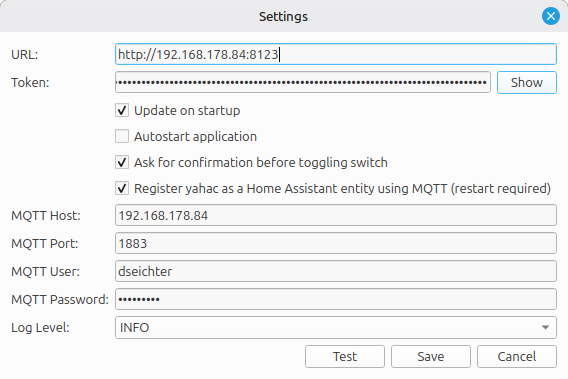
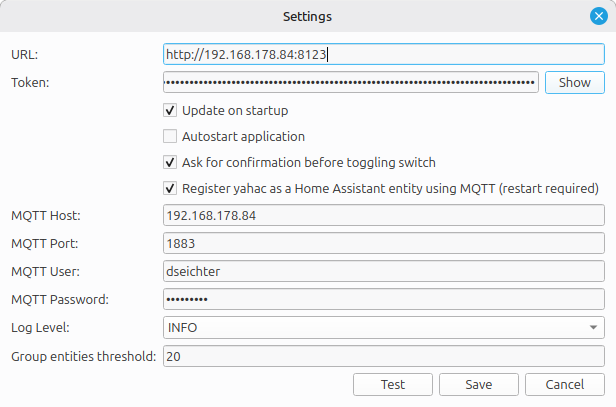
#61 Group entities (configurable)

Changed region(s): [[0.0, 0.0, 0.9877, 0.9868], [0.0, 0.1161, 0.0898, 0.2322], [0.4489, 0.029, 0.5387, 0.058]]

diff --git a/src/gui_traymenu.py b/src/gui_traymenu.py
@@ -154,30 +154,56 @@ class TrayIcon(QSystemTrayIcon):
         sensors = settings.load_value_from_json_file("entities")
         if not sensors:
             return
-            
+        
+        # Group entities by domain
+        groups = {}
         for sensor in sensors:
             entity_id = sensor.get("entity_id", "")
-            friendly_name = sensor.get("friendly_name", entity_id)
-            entity_type = sensor.get("type", "switch")
-            entity_state = api.get_entity_state(entity_id)
-            logger.info(f"Loaded sensor: {friendly_name} ({entity_id}) - {entity_type} - {entity_state}")
+            domain = entity_id.split('.')[0] if '.' in entity_id else 'other'
+            if domain not in groups:
+                groups[domain] = []
+            groups[domain].append(sensor)
+        
+        # Create submenus based on configured threshold
+        group_threshold = settings.load_value_from_json_file("group_threshold")
+        if group_threshold is None:
+            group_threshold = 5
+        else:
+            group_threshold = int(group_threshold)
+        use_submenus = len(sensors) > group_threshold
+        
+        for domain, entities in sorted(groups.items()):
+            if use_submenus and len(groups) > 1:
+                # Create submenu for this domain
+                submenu = QMenu(domain.capitalize(), menu)
+                menu.addMenu(submenu)
+                target_menu = submenu
+            else:
+                target_menu = menu
             
-            if entity_type == "sensor":
-                action = QAction(f"{friendly_name} ({entity_state})", self)
-                action.setIcon(icons.get_icon('sensors_24dp_1976d2_fill0_wght400_grad0_opsz24'))
-                action.setToolTip(entity_id)
-                action.triggered.connect(lambda checked, s=sensor: self.on_sensor_selected(s))
-                menu.addAction(action)
+            for sensor in entities:
+                entity_id = sensor.get("entity_id", "")
+                friendly_name = sensor.get("friendly_name", entity_id)
+                entity_type = sensor.get("type", "switch")
+                entity_state = api.get_entity_state(entity_id)
+                logger.info(f"Loaded sensor: {friendly_name} ({entity_id}) - {entity_type} - {entity_state}")
                 
-            elif entity_type == "switch":
-                action = QAction(f"{friendly_name} ({entity_state})", self)
-                if entity_state == "on":
-                    action.setIcon(icons.get_icon('toggle_on_24dp_1976d2_fill0_wght400_grad0_opsz24'))
-                else:
-                    action.setIcon(icons.get_icon('toggle_off_24dp_1976d2_fill0_wght400_grad0_opsz24'))
-                action.setToolTip(entity_id)
-                action.triggered.connect(lambda checked, s=sensor: self.on_switch_selected(s))
-                menu.addAction(action)
+                if entity_type == "sensor":
+                    action = QAction(f"{friendly_name} ({entity_state})", self)
+                    action.setIcon(icons.get_icon('sensors_24dp_1976d2_fill0_wght400_grad0_opsz24'))
+                    action.setToolTip(entity_id)
+                    action.triggered.connect(lambda checked, s=sensor: self.on_sensor_selected(s))
+                    target_menu.addAction(action)
+                    
+                elif entity_type == "switch":
+                    action = QAction(f"{friendly_name} ({entity_state})", self)
+                    if entity_state == "on":
+                        action.setIcon(icons.get_icon('toggle_on_24dp_1976d2_fill0_wght400_grad0_opsz24'))
+                    else:
+                        action.setIcon(icons.get_icon('toggle_off_24dp_1976d2_fill0_wght400_grad0_opsz24'))
+                    action.setToolTip(entity_id)
+                    action.triggered.connect(lambda checked, s=sensor: self.on_switch_selected(s))
+                    target_menu.addAction(action)
 
     def on_sensor_selected(self, sensor):
         if sensor:

diff --git a/src/gui_config.py b/src/gui_config.py
@@ -89,6 +89,13 @@ class ConfigDialog(QDialog):
         self.cmb_log_level.addItems(["DEBUG", "INFO", "ERROR"])
         grid.addWidget(self.cmb_log_level, 10, 1)
         
+        # Entity grouping threshold
+        grid.addWidget(QLabel("Group entities threshold:"), 11, 0)
+        self.txt_group_threshold = QLineEdit()
+        self.txt_group_threshold.setPlaceholderText("5")
+        self.txt_group_threshold.setToolTip("Minimum entities before grouping into submenus (0 = always group)")
+        grid.addWidget(self.txt_group_threshold, 11, 1)
+        
         layout.addLayout(grid)
         
         # Buttons
@@ -123,6 +130,7 @@ class ConfigDialog(QDialog):
         mqtt_user = settings.load_value_from_json_file("mqtt_user")
         mqtt_password = settings.load_value_from_json_file("mqtt_password")
         log_level = settings.load_value_from_json_file("loglevel")
+        group_threshold = settings.load_value_from_json_file("group_threshold")
 
         self.txt_url.setText(url if url else "")
         self.txt_token.setText(token if token else "")
@@ -135,6 +143,7 @@ class ConfigDialog(QDialog):
         self.txt_mqtt_user.setText(mqtt_user if mqtt_user else "")
         self.txt_mqtt_password.setText(mqtt_password if mqtt_password else "")
         self.cmb_log_level.setCurrentText(log_level if log_level else "INFO")
+        self.txt_group_threshold.setText(str(group_threshold) if group_threshold else "5")
 
     def on_show_token(self):
         if self.token_visible:
@@ -178,6 +187,10 @@ class ConfigDialog(QDialog):
         settings.save_config("mqtt_user", self.txt_mqtt_user.text())
         settings.save_config("mqtt_password", self.txt_mqtt_password.text())
         settings.save_config("loglevel", self.cmb_log_level.currentText())
+        
+        group_threshold_text = self.txt_group_threshold.text()
+        group_threshold = int(group_threshold_text) if group_threshold_text.isdigit() else 5
+        settings.save_config("group_threshold", group_threshold)
 
         QMessageBox.information(self, "Save", "Settings saved.")
         self.accept()

diff --git a/src/settings.py b/src/settings.py
@@ -55,6 +55,8 @@ def create_config():
         data['entities'] = []
     if 'confirm_state_change' not in data:
         data['confirm_state_change'] = True
+    if 'group_threshold' not in data:
+        data['group_threshold'] = 5
 
     with open(CONFIGFILE, 'w') as f:
         json.dump(data, f, indent=4, sort_keys=True)

diff --git a/docs/docs/configuration.md b/docs/docs/configuration.md
@@ -59,6 +59,10 @@ Last but not least, provide the password.
 
 yahac writes per default the logs to /tmp/yahac.log. Since there are no sensitive data, the temp file is available within all operating systems, I kept this approach.
 
+## Group entities threshold
+
+Using this value to specify, when the tray menu should start with grouping by sensors, switches, etc. This enables a more clean view, if you have added a lot of entities. Default is 5.
+
 ### Loglevel
 
 Specify your loglevel, you want to run yahac. At the beginning, you might see potential configuration issues, so I recommend to set to **INFO**.
